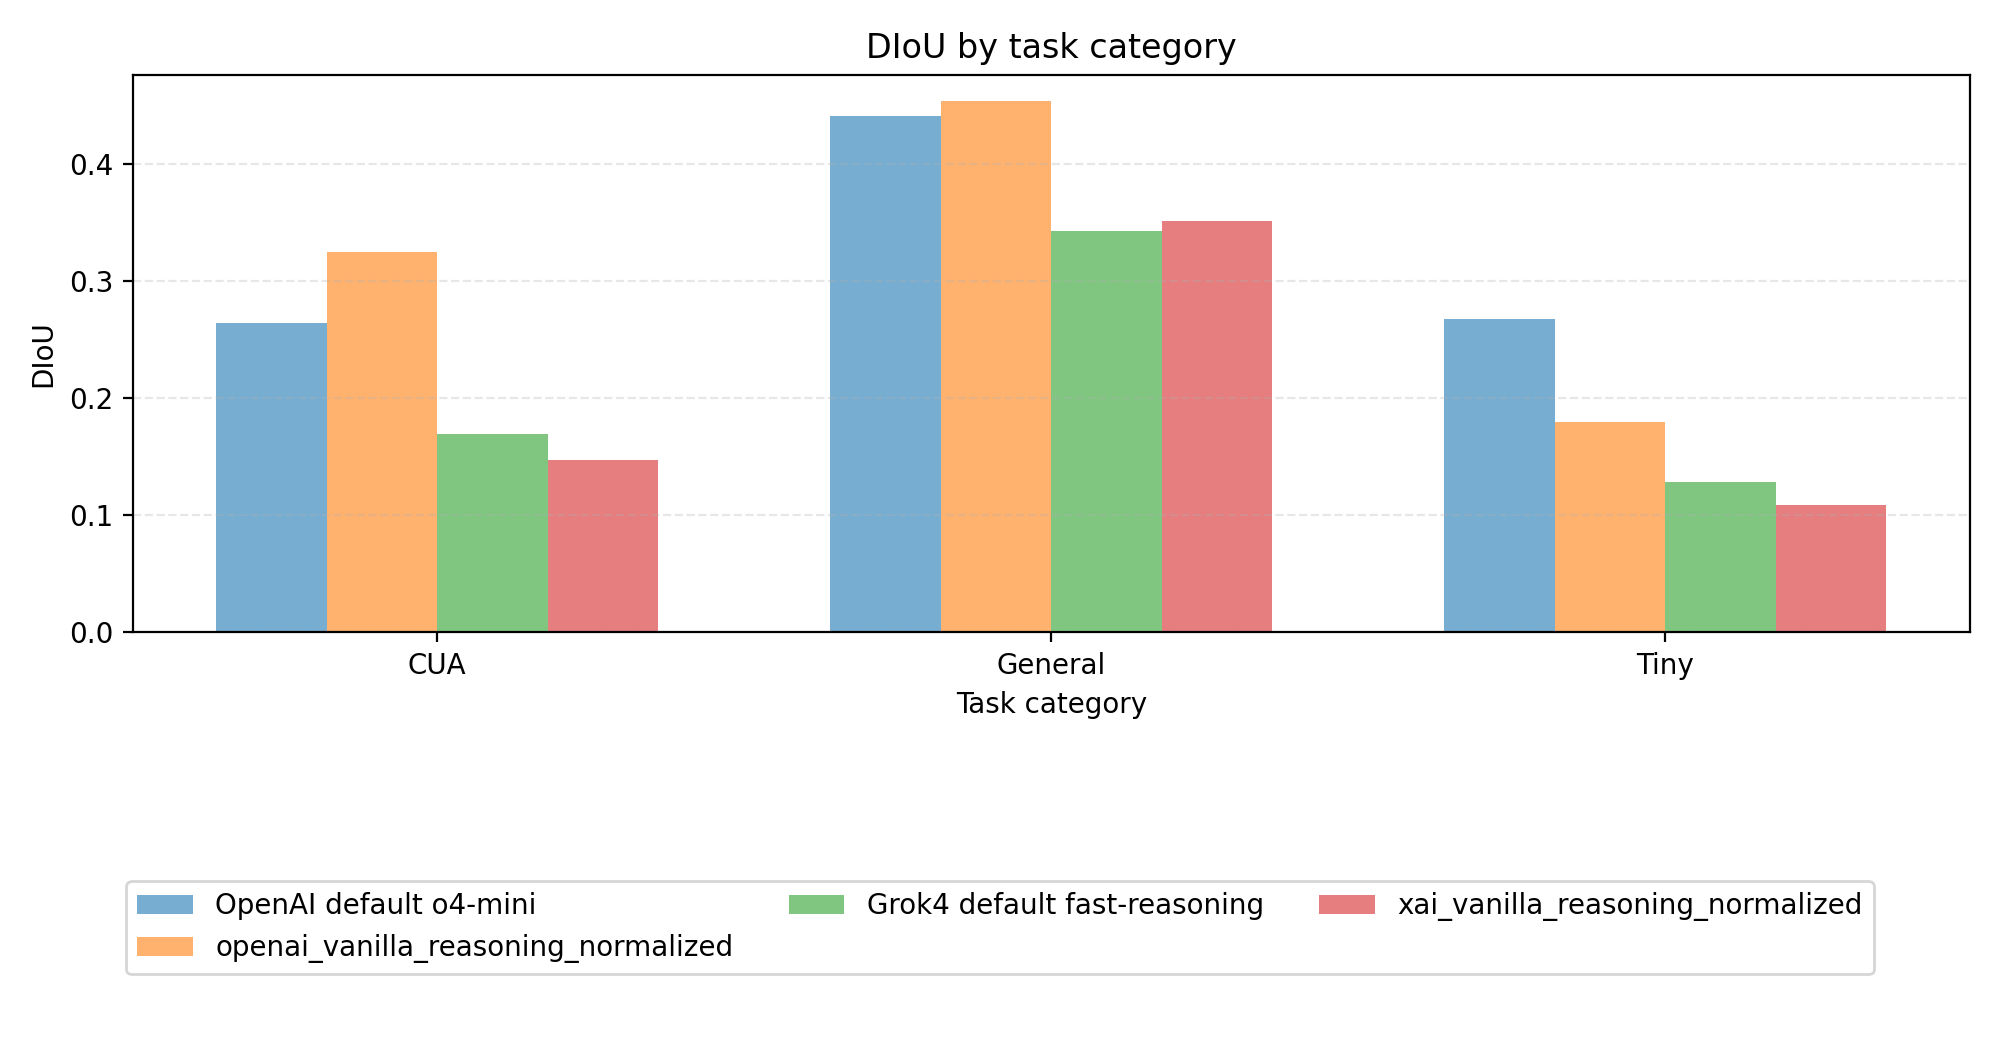
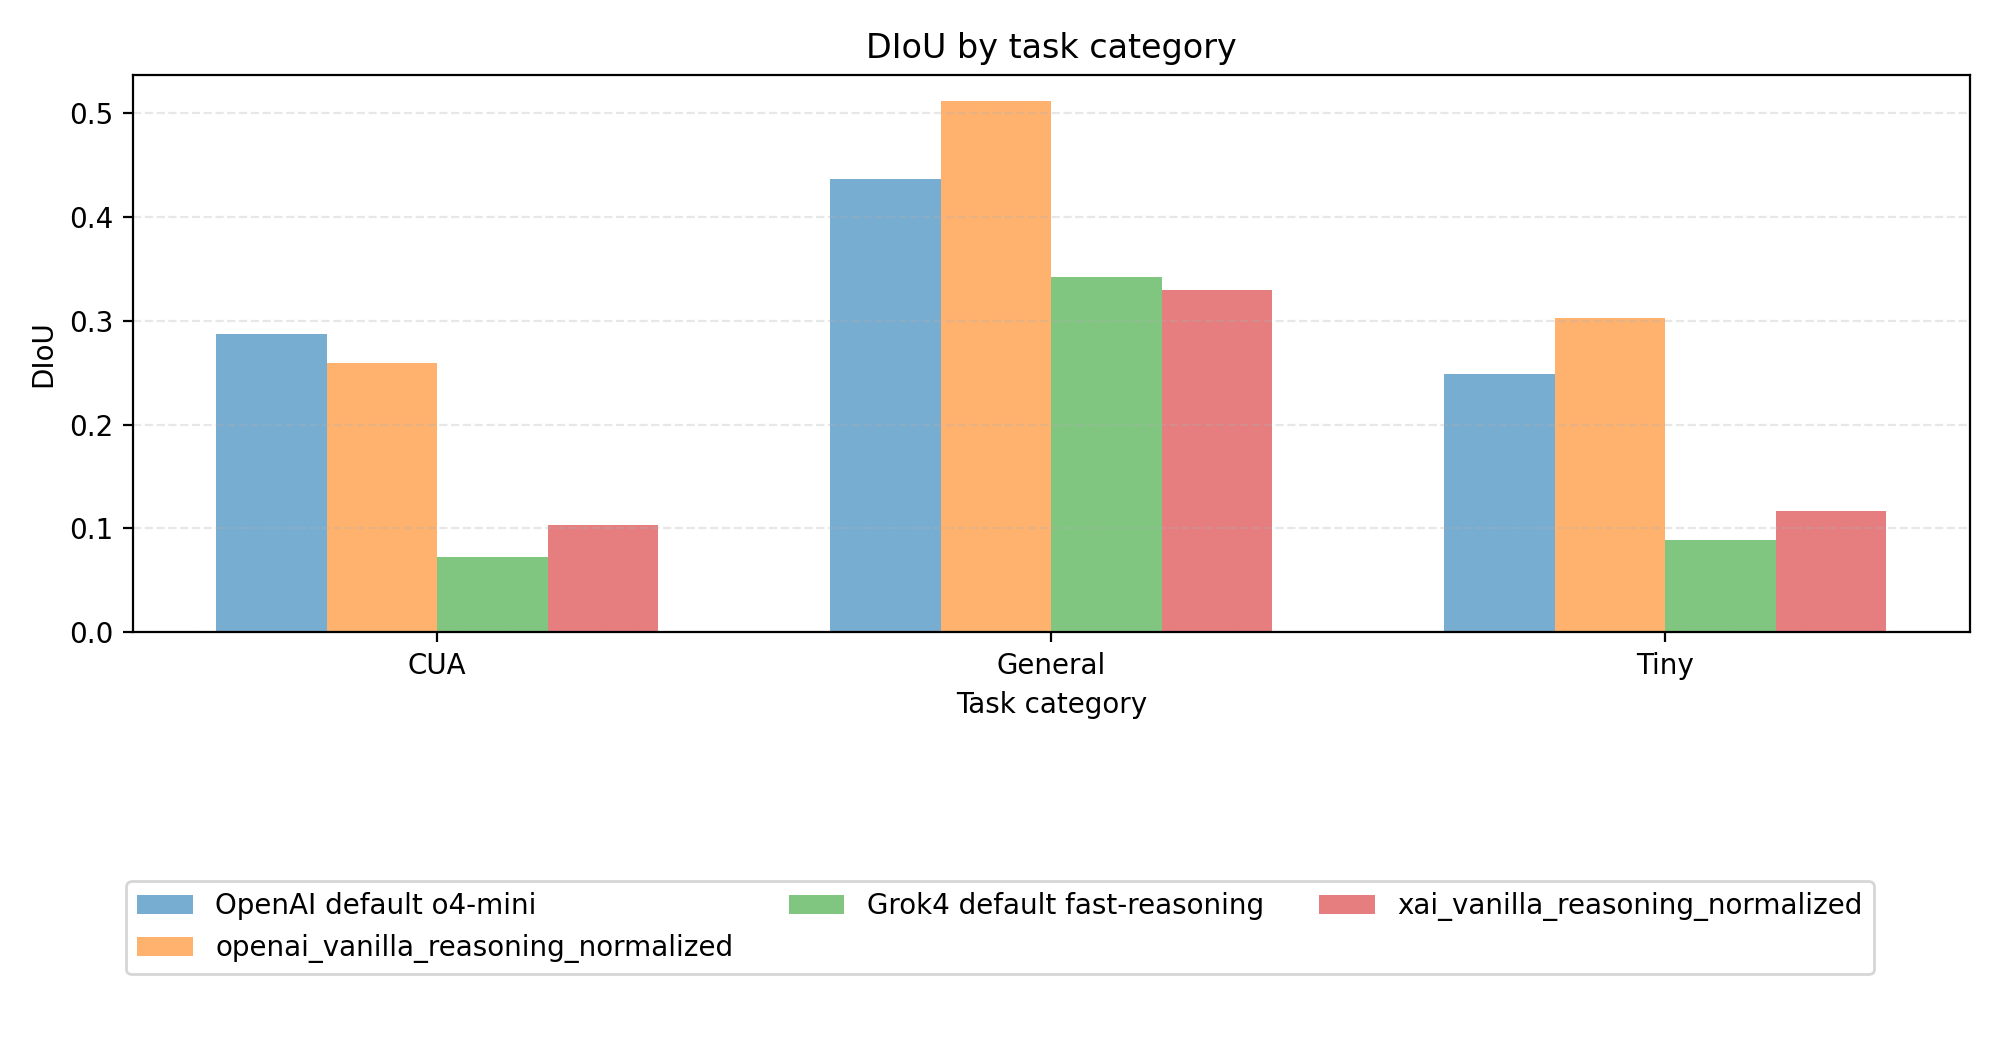
bugfix: Normalization

diff --git a/src/spatial_reasoning/tasks/vanilla_reasoning_model_task.py b/src/spatial_reasoning/tasks/vanilla_reasoning_model_task.py
@@ -4,7 +4,7 @@ from PIL import Image
 
 from ..agents import BaseAgent
 from ..data import Cell
-from ..prompts import BboxDetectionWithGridCellPrompt, SimpleDetectionPrompt
+from ..prompts import BboxDetectionWithGridCellPrompt, SimpleDetectionPrompt, SimpleDetectionPromptNormalized
 from ..utils.io_utils import parse_detection_output
 from .base_task import BaseTask
 
@@ -39,8 +39,15 @@ class VanillaReasoningModelTask(BaseTask):
         multiple_predictions: bool = kwargs.get("multiple_predictions", False)
         resolution = kwargs.get("resolution", image.size)  # BBOX Prompt
         grid_size = kwargs.get("grid_size", (4, 3))  # BBOX Prompt only
+        is_normalized_coordinates = kwargs.get("is_normalized_coordinates", False)
 
-        if isinstance(self.prompt, BboxDetectionWithGridCellPrompt):
+        # Select the appropriate prompt based on normalization flag
+        prompt_to_use = self.prompt
+        if is_normalized_coordinates and isinstance(self.prompt, SimpleDetectionPrompt):
+            # Use the normalized version for vanilla prompts
+            prompt_to_use = SimpleDetectionPromptNormalized()
+
+        if isinstance(prompt_to_use, BboxDetectionWithGridCellPrompt):
             image, cell_lookup = BaseTask.overlay_grid_on_image(
                 image, grid_size[0], grid_size[1]
             )
@@ -58,10 +65,10 @@ class VanillaReasoningModelTask(BaseTask):
 
         messages = [
             self.agent.create_text_message(
-                "system", self.prompt.get_system_prompt(**prompt_kwargs)
+                "system", prompt_to_use.get_system_prompt(**prompt_kwargs)
             ),
             self.agent.create_multimodal_message(
-                "user", self.prompt.get_user_prompt(**prompt_kwargs), [image]
+                "user", prompt_to_use.get_user_prompt(**prompt_kwargs), [image]
             ),
         ]
 
@@ -98,6 +105,14 @@ class VanillaReasoningModelTask(BaseTask):
         for i, bbox in enumerate(structured_response["bbox"]):
             x, y, w, h = bbox
             confidence = structured_response["confidence"][i]
+
+            # Convert from normalized coordinates (0-100) back to pixel coordinates if needed
+            if is_normalized_coordinates and isinstance(prompt_to_use, SimpleDetectionPromptNormalized):
+                # Convert from 0-100 normalized coordinates to actual pixel coordinates
+                x = int(x * resolution[0] / 100)
+                y = int(y * resolution[1] / 100)
+                w = int(w * resolution[0] / 100)
+                h = int(h * resolution[1] / 100)
 
             cell = Cell(id=i, left=x, top=y, right=x + w, bottom=y + h)
             # if (

diff --git a/src/spatial_reasoning/evaluation/Instructions.md b/src/spatial_reasoning/evaluation/Instructions.md
@@ -33,7 +33,7 @@ python -m spatial_reasoning.evaluation.benchmark \
   --agents gemini openai_vanilla_reasoning xai_vanilla_reasoning openai_advanced_reasoning xai_advanced_reasoning \
   --data data/benchmark_data.json \
   --save-location /tmp/benchmark \
-  --num-workers 300
+  --num-workers 200
 ```
 
 ### Impact of normalization:
@@ -43,6 +43,7 @@ python -m spatial_reasoning.evaluation.benchmark_normalized \
   --agents openai_vanilla_reasoning xai_vanilla_reasoning \
   --data data/benchmark_data.json \
   --save-location ./output
+  --num-workers 64
 ```
 
 
